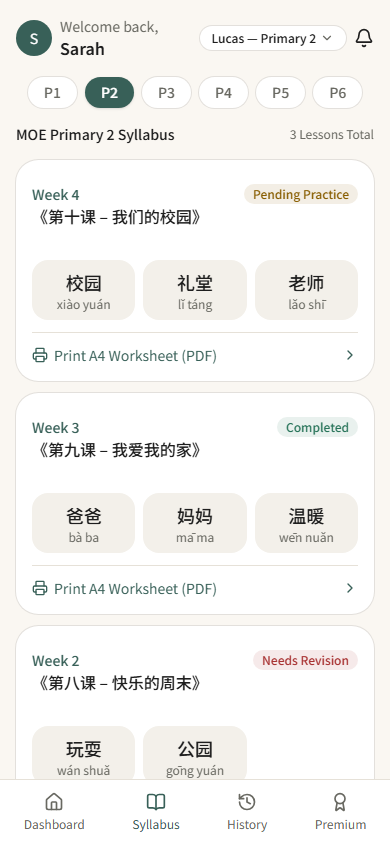
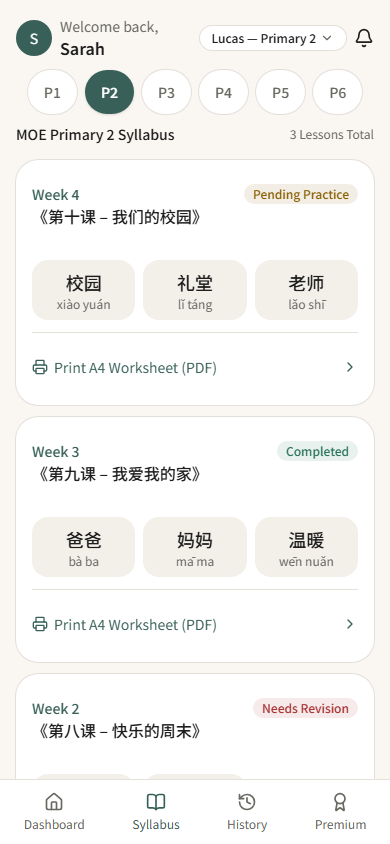
style: widen Syllabus level-tabs pills to match the reference mockup
docs/reference/mockups/screen2-syllabus.png's P1-P6 pills are a clearly
oval stadium shape. Ours had shrunk to px-3 (Phase 54's h-11 44px
touch-target fix left no room for more at 320px) and ended up looking
nearly circular instead - a real, if secondary, side effect of that fix.

320px can't fit six pills at the mockup's own aspect ratio no matter
the padding, so stepped it with an ordinary min-[375px]: breakpoint -
px-3/gap-1.5 stays the floor that's confirmed to fit iPhone SE, px-4/
gap-2 widens back toward the mockup's shape on every other real phone.
Re-verified centering, zero overflow, and zero clipping from 320px
through 1280px+, full Vitest/e2e/impeccable detect - all clean.

Claude-Session: https://claude.ai/code/session_01EnRVpHouQnX2heCuSAXR8o

diff --git a/src/screens/syllabus/ui/SyllabusScreen.tsx b/src/screens/syllabus/ui/SyllabusScreen.tsx
@@ -56,17 +56,22 @@ export function SyllabusScreen({ viewer, moeLevel, lessons }: SyllabusScreenProp
           the edge with no affordance it was swipeable). All 6 levels are
           a fixed, known set (MOE Singapore's own P1-P6) - the real fix is
           making all 6 actually fit, not making the overflow scroll
-          somewhere. Tightened gap-2→gap-1.5 and px-4→px-3; confirmed live
-          this fits at 320px (iPhone SE) with room to spare, no scroll
-          needed at any real width, so mx-auto centers normally everywhere
-          again. h-11 (44px tap target) unaffected - only width shrank. */}
+          somewhere. px-3/gap-1.5 is the floor confirmed to fit the
+          narrowest real width (320px, iPhone SE) with room to spare; from
+          375px up (nearly every other real phone) there's enough room to
+          widen back toward the reference mockup's own more oval pill
+          shape (docs/reference/mockups/screen2-syllabus.png), so
+          min-[375px]: steps padding/gap back up there - an ordinary
+          breakpoint, not the rejected scroll-wrapper approach. h-11 (44px
+          tap target) unaffected at every width - only the pill's width
+          changes. */}
       <Tabs value={level} onValueChange={(value) => setLevel(value as MoeLevel)}>
-        <TabsList className="mx-auto h-auto gap-1.5 bg-transparent p-0">
+        <TabsList className="mx-auto h-auto gap-1.5 bg-transparent p-0 min-[375px]:gap-2">
           {MOE_LEVELS.map((l) => (
             <TabsTrigger
               key={l}
               value={l}
-              className="h-11 rounded-full border-none bg-card px-3 text-muted-foreground ring-1 ring-foreground/10 data-active:bg-primary data-active:text-primary-foreground data-active:shadow-none data-active:ring-0"
+              className="h-11 rounded-full border-none bg-card px-3 text-muted-foreground ring-1 ring-foreground/10 min-[375px]:px-4 data-active:bg-primary data-active:text-primary-foreground data-active:shadow-none data-active:ring-0"
             >
               {l}
             </TabsTrigger>

diff --git a/docs/planning/FSD_TingXieHero.md b/docs/planning/FSD_TingXieHero.md
@@ -2001,6 +2001,24 @@ fake-camera workaround further.
 
 ---
 
+### Phase 57 (beyond the original plan) — the Syllabus level-tabs pill shape matched closer to the reference mockup
+
+Compared live against `docs/reference/mockups/screen2-syllabus.png`: the mockup's P1-P6 pills are a
+clearly oval stadium shape (wide relative to their height); this app's pills, after Phase 54's
+`h-11` (44px) touch-target fix, had shrunk to `px-3` to fit six of them at 320px (iPhone SE) and
+ended up looking nearly circular (41x44, aspect ~0.93) instead - a real, if secondary, casualty of
+that fix. The narrow width and the 44px height floor are in genuine tension: at 320px there's no
+combination of padding/gap that both fits six pills and reaches the mockup's ~1.8 aspect ratio.
+Rather than pick one width for every screen, stepped it with an ordinary `min-[375px]:` breakpoint -
+an unremarkable media query, not the kind of clever/fragile trick already rejected twice this
+session - keeping `px-3`/`gap-1.5` as the floor confirmed to fit the true narrowest real width, and
+widening to `px-4`/`gap-2` (49x44, aspect 1.12, visibly closer to the mockup) for every other real
+phone (375px+). Re-verified centering, zero overflow, and zero clipping from 320px through 1280px+,
+plus the full Vitest/e2e/`impeccable detect` pass - all clean. Regenerated
+`docs/screenshots/syllabus.png` and `public/screenshots/syllabus.png` to show the new shape.
+
+---
+
 ## 7. Environment Variables
 
 ```
